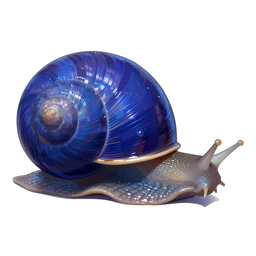
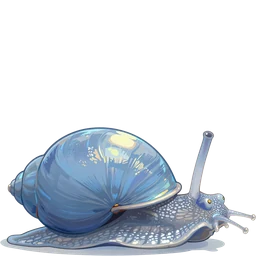
畫面評測第 2 輪：背上弧線、焦散網紋、沙上小石子、設備分頁、教學商店按鈕；第 13 批素材
- V16：燕尾不再畫背鰭的鬚（浮在背上方的藍色弧線）。
- V17：焦散改成細胞狀細網紋，網眼縮小、只照下半缸、透明度降低。
- V19：沙上的灰色亮面圓球改成扁平、跟沙同色系的小石子群，有接觸陰影。
- V20：硝化菌液跟設備放同一排，不會一張卡佔一列。
- 教學的「帶我去商店」改成次要按鈕、不放最右邊，連點下一步不會誤開商店。
- 第 13 批：米蝦卵鞍、抱卵、發眼卵、幼蝦、亞成蝦、蛻殼、卡殼，水晶蝦抱卵、幼蝦，蘋果螺金藍紫象牙四色（新增紫、象牙），新後景。

Claude-Session: https://claude.ai/code/session_01KsbS4vLZbfPytVNgNzSz4q

diff --git a/src/render/scenery.ts b/src/render/scenery.ts
@@ -424,25 +424,35 @@ function paintSubstrate(ctx: Ctx, b: TankBounds, hs: number, look: Exclude<Subst
   const rand = seeded(4242);
   paintGrains(ctx, rand, pal, hs, 0, bottom - 16 * hs, w, 50 * hs, art ? 3 : 1);
   if (look === 'sand' || look === 'coral') {
-    // 小卵石、貝殼碎片
-    for (let i = 0; i < w / 45; i++) {
-      const x = rand() * w;
-      const yy = sandSurface(look, x, w, bottom, hs) + 4 * hs + rand() * 20 * hs;
-      const r = (2 + rand() * 4) * Math.max(0.6, hs);
-      const pg = ctx.createRadialGradient(x - r * 0.3, yy - r * 0.4, 0, x, yy, r);
-      const tone = look === 'coral' ? [0xf4ece0, 0xe6c8b8, 0xfaf6ee, 0xd8cfc0][i % 4] : [0xd9cbb0, 0xa89a86, 0x8c8478, 0xe8e0d0][i % 4];
-      pg.addColorStop(0, rgba(mix(tone, 0xffffff, 0.4), 1));
-      pg.addColorStop(1, rgba(mix(tone, 0x000000, 0.3), 1));
-      ctx.fillStyle = pg;
-      ctx.beginPath();
-      if (look === 'coral') {
-        // 珊瑚碎片是有稜角的
-        ctx.moveTo(x - r * 1.4, yy);
-        ctx.lineTo(x - r * 0.2, yy - r);
-        ctx.lineTo(x + r * 1.3, yy - r * 0.3);
-        ctx.lineTo(x + r * 0.5, yy + r * 0.7);
-      } else ctx.ellipse(x, yy, r * 1.3, r, 0, 0, Math.PI * 2);
-      ctx.fill();
+    // 小卵石、貝殼碎片（畫面評測 V19：原本是灰色的亮面圓球，像黏在沙上的氣泡）
+    // 改成扁扁的、顏色跟沙接近的小石子，三五顆聚在一起，底下有一點接觸陰影
+    const groups = Math.round(w / 140);
+    for (let gi = 0; gi < groups; gi++) {
+      const gx = rand() * w;
+      const count = 2 + Math.floor(rand() * 4);
+      for (let k = 0; k < count; k++) {
+        const x = gx + (rand() - 0.5) * 26 * hs;
+        const yy = sandSurface(look, x, w, bottom, hs) + 5 * hs + rand() * 18 * hs;
+        const r = (1.4 + rand() * 2.6) * Math.max(0.6, hs);
+        const tone = look === 'coral' ? [0xf4ece0, 0xe6c8b8, 0xfaf6ee, 0xd8cfc0][(gi + k) % 4] : [0xc9b48e, 0xb09a78, 0x9a8a74, 0xd8c8a6, 0x8d7a62][(gi + k) % 5];
+        ctx.fillStyle = 'rgba(60,45,25,0.22)';
+        ctx.beginPath();
+        ctx.ellipse(x + r * 0.2, yy + r * 0.45, r * 1.5, r * 0.45, 0, 0, Math.PI * 2);
+        ctx.fill();
+        const pg = ctx.createLinearGradient(x, yy - r * 0.7, x, yy + r * 0.7);
+        pg.addColorStop(0, rgba(mix(tone, 0xffffff, 0.25), 1));
+        pg.addColorStop(1, rgba(mix(tone, 0x000000, 0.18), 1));
+        ctx.fillStyle = pg;
+        ctx.beginPath();
+        if (look === 'coral') {
+          // 珊瑚碎片是有稜角的
+          ctx.moveTo(x - r * 1.4, yy);
+          ctx.lineTo(x - r * 0.2, yy - r);
+          ctx.lineTo(x + r * 1.3, yy - r * 0.3);
+          ctx.lineTo(x + r * 0.5, yy + r * 0.7);
+        } else ctx.ellipse(x, yy, r * (1.2 + rand() * 0.5), r * 0.7, (rand() - 0.5) * 0.5, 0, Math.PI * 2);
+        ctx.fill();
+      }
     }
   }
   // 沙面最後面的陰影（水草、石頭根部）
@@ -537,6 +547,50 @@ function paintGrains(ctx: Ctx, rand: () => number, pal: (typeof SUBSTRATE_PALETT
   }
 }
 
+/**
+ * 焦散網紋的亮度（0–1）：細胞狀的網（Voronoi 的邊，F2−F1 接近 0 的地方），再用低頻的波扭一下讓網線彎彎的。
+ * size 是貼圖邊長，cells 每邊幾格；點的位置用整數頻率包回去，所以可以無縫拼接。
+ * 畫面評測 V17：原本三組大波疊出來的是幾條粗白曲線，像煙；水底的光紋應該是細細一張網。
+ */
+export function causticsField(size: number, cells: number, seed = 7): Float32Array {
+  let r = seed;
+  const rand = () => (r = (r * 16807) % 2147483647) / 2147483647;
+  const pts: number[] = [];
+  for (let i = 0; i < cells * cells; i++) pts.push(rand(), rand());
+  const cell = size / cells;
+  const T = (Math.PI * 2) / size;
+  const out = new Float32Array(size * size);
+  for (let y = 0; y < size; y++) {
+    for (let x = 0; x < size; x++) {
+      // 扭曲：整數頻率，拼接處接得起來
+      const amp = cell * 0.22;
+      const wx = x + amp * (Math.sin(2 * y * T + 1.3) + 0.5 * Math.sin(5 * y * T + 3 * x * T));
+      const wy = y + amp * (Math.sin(2 * x * T) + 0.5 * Math.sin(4 * x * T - 3 * y * T + 2));
+      const gx = Math.floor(wx / cell);
+      const gy = Math.floor(wy / cell);
+      let f1 = Infinity;
+      let f2 = Infinity;
+      for (let dy = -1; dy <= 1; dy++) {
+        for (let dx = -1; dx <= 1; dx++) {
+          const cx = gx + dx;
+          const cy = gy + dy;
+          const k = (((cy % cells) + cells) % cells) * cells + (((cx % cells) + cells) % cells);
+          const px = (cx + pts[k * 2]) * cell;
+          const py = (cy + pts[k * 2 + 1]) * cell;
+          const d = Math.hypot(wx - px, wy - py);
+          if (d < f1) {
+            f2 = f1;
+            f1 = d;
+          } else if (d < f2) f2 = d;
+        }
+      }
+      const e = (f2 - f1) / cell;
+      out[y * size + x] = Math.exp(-((e / 0.08) ** 2));
+    }
+  }
+  return out;
+}
+
 /** 可以無縫拼接的焦散光紋（水面的波浪把光聚成網狀亮線）。 */
 let caustics: Texture | null = null;
 export function causticsTexture(): Texture {
@@ -544,21 +598,12 @@ export function causticsTexture(): Texture {
   const N = 256;
   const { canvas, ctx } = makeCanvas(N, N);
   const img = ctx.createImageData(N, N);
-  const T = (Math.PI * 2) / N;
-  for (let y = 0; y < N; y++) {
-    for (let x = 0; x < N; x++) {
-      const u = x * T;
-      const v = y * T;
-      // 三組整數頻率的波疊加 → 可無縫拼接；值接近 0 的等高線就是焦散亮線
-      const s = Math.sin(3 * u + 1.6 * Math.sin(2 * v)) + Math.sin(3 * v + 1.6 * Math.sin(2 * u + 1)) + Math.sin(2 * (u + v) + Math.sin(3 * u - v));
-      const s2 = Math.sin(5 * u - 2 * v + Math.sin(4 * v)) * 0.6;
-      const line = Math.exp(-((s + s2) ** 2) * 6);
-      const i = (y * N + x) * 4;
-      img.data[i] = 255;
-      img.data[i + 1] = 255;
-      img.data[i + 2] = 255;
-      img.data[i + 3] = Math.round(255 * Math.min(1, line));
-    }
+  const field = causticsField(N, 7);
+  for (let i = 0; i < N * N; i++) {
+    img.data[i * 4] = 235;
+    img.data[i * 4 + 1] = 252;
+    img.data[i * 4 + 2] = 255;
+    img.data[i * 4 + 3] = Math.round(255 * field[i]);
   }
   ctx.putImageData(img, 0, 0);
   caustics = canvasTexture(canvas, false);

diff --git a/src/render/tank-view.ts b/src/render/tank-view.ts
@@ -383,11 +383,12 @@ export class TankView {
     for (const [c, scale] of [[this.causticsA, 1.2], [this.causticsB, 0.8]] as const) {
       c.width = b.width;
       c.height = b.height;
-      c.tileScale.set(scale * Math.max(0.6, this.hs) * 1.6);
+      // 網眼約一個拳頭大（畫面評測 V17：之前放太大，變成幾條粗白曲線）
+      c.tileScale.set(scale * Math.max(0.6, this.hs) * 0.75);
     }
     // 遮罩用柔和的漸層（從水中段淡入，到底沙最亮）
     if (this.causticsMask.texture === Texture.EMPTY) this.causticsMask.texture = fadeTexture();
-    const y0 = b.surface + (b.bottom - b.surface) * 0.3;
+    const y0 = b.surface + (b.bottom - b.surface) * 0.5;
     this.causticsMask.position.set(0, y0);
     this.causticsMask.width = b.width;
     // 焦散只照在水和底沙上，不畫到下方工具列後面
@@ -589,8 +590,8 @@ export class TankView {
       this.causticsA.tilePosition.y += dt * 4;
       this.causticsB.tilePosition.x -= dt * 6;
       this.causticsB.tilePosition.y += dt * 7;
-      this.causticsA.alpha = 0.22 + 0.06 * Math.sin(t * 0.8);
-      this.causticsB.alpha = 0.18 + 0.06 * Math.sin(t * 0.6 + 1);
+      this.causticsA.alpha = 0.16 + 0.05 * Math.sin(t * 0.8);
+      this.causticsB.alpha = 0.12 + 0.05 * Math.sin(t * 0.6 + 1);
     }
     for (const m of this.motes) {
       m.x += (m.vx + Math.sin(t * 0.5 + m.phase) * 4) * dt;

diff --git a/src/ui/panels.ts b/src/ui/panels.ts
@@ -862,7 +862,8 @@ export function shopPanel(ctx: PanelContext, tab: ShopTab = 'fish'): Node {
         '換底材要拆缸重鋪：底砂裡的細菌和髒污會翻出來，魚也會很緊迫。',
         '有些石頭會慢慢讓水變硬、pH 變高。不確定的話先滴白醋：冒泡就是含碳酸鈣。拿出來的石頭會放回倉庫，不退錢。',
       ]),
-      h('h3', {}, '水質用品'),
+      // 硝化菌液排第一張（養水任務帶到這頁），跟設備放同一排，不會一張卡佔一整列（畫面評測 V20）
+      h('h3', {}, '養水與設備'),
       cardGrid(
         shopCard({
           icon: 'bacteria',
@@ -873,9 +874,6 @@ export function shopPanel(ctx: PanelContext, tab: ShopTab = 'fish'): Node {
           note: '幫新缸加一小批硝化菌，要有魚或氨才長得起來',
           actions: [button('倒一瓶', () => purchase(ctx, price('care:bacteria'), (st) => void addBottledBacteria(st), '倒了一瓶硝化菌液，過一兩天測測看'), 'small')],
         }),
-      ),
-      h('h3', {}, '過濾、加熱、燈'),
-      cardGrid(
         ...Object.values(FILTERS).map((f) =>
           item(f.name, `filter:${f.id}`, eq.filter?.spec.id === f.id, () => {
             purchase(ctx, price(`filter:${f.id}`), (st) => replaceFilter(st, f), `換上${f.name}，濾材要重新養菌`, 'warn', true);

diff --git a/src/ui/guide.ts b/src/ui/guide.ts
@@ -133,14 +133,14 @@ export class Guide {
       q && this.progress.step === 0
         ? h('button.btn.small', { onclick: () => this.skip() }, '跳過教學')
         : null;
+    // 「帶我去商店」不是主要按鈕、也不放在最右邊：連點「下一步」的人不會不小心打開商店（畫面評測第 2 輪）
     const shop =
       page.shop && this.openShop
-        ? h('button.btn.small.primary.go-shop', { onclick: () => this.goShop(page.shop!) }, artImg('shop', 'btn-art'), '帶我去商店')
+        ? h('button.btn.small.go-shop', { onclick: () => this.goShop(page.shop!) }, artImg('shop', 'btn-art'), '帶我去商店')
         : null;
-    if (shop) next.classList.remove('primary');
     this.bubble.replaceChildren(
       avatar,
-      h('div.owner-body', {}, h('div.owner-name', {}, OWNER_NAME), h('p.owner-text', {}, page.text), h('div.owner-actions', {}, skip, next, shop)),
+      h('div.owner-body', {}, h('div.owner-name', {}, OWNER_NAME), h('p.owner-text', {}, page.text), h('div.owner-actions', {}, skip, shop, next)),
     );
     this.bubble.classList.add('open');
   }

diff --git a/src/render/caustics.test.ts b/src/render/caustics.test.ts
@@ -1,0 +1,23 @@
+import { describe, expect, it } from 'vitest';
+import { causticsField } from './scenery';
+
+describe('焦散網紋（畫面評測 V17）', () => {
+  const N = 64;
+  const f = causticsField(N, 4);
+
+  it('是細細的網：大部分地方是暗的，亮線佔一小部分', () => {
+    const bright = f.filter((v) => v > 0.5).length / f.length;
+    expect(bright).toBeGreaterThan(0.03);
+    expect(bright).toBeLessThan(0.3);
+  });
+
+  it('左右、上下接得起來（可以無縫拼接）', () => {
+    let diff = 0;
+    for (let y = 0; y < N; y++) diff += Math.abs(f[y * N] - f[y * N + N - 1]);
+    for (let x = 0; x < N; x++) diff += Math.abs(f[x] - f[(N - 1) * N + x]);
+    // 邊上相鄰兩點的差，跟圖內相鄰兩點的平均差差不多，不會有一條接縫
+    let inner = 0;
+    for (let y = 0; y < N; y++) for (let x = 0; x < N - 1; x++) inner += Math.abs(f[y * N + x] - f[y * N + x + 1]);
+    expect(diff / (2 * N)).toBeLessThan((inner / (N * (N - 1))) * 2.5);
+  });
+});

diff --git a/src/render/fin-overlay.ts b/src/render/fin-overlay.ts
@@ -107,14 +107,14 @@ export function finShapes(t: FinTraits, body: Body, length: number): FinShape[] 
     });
   }
   if (t.swallow) {
-    // 燕尾：鰭條末端長出鬚，尾鰭後緣拖著一排細絲，背鰭也有
+    // 燕尾：鰭條末端長出鬚，尾鰭後緣拖著一排細絲
     const tail = length * (0.08 + k * 0.1);
     for (let i = 0; i < 7; i++) {
       const u = i / 6 - 0.5;
       const y0 = cy + u * ry * 2.6;
       out.push({ kind: 'line', front: false, points: [tailEnd - length * 0.12, y0, tailEnd + tail * 0.3, y0 + u * ry * 1.4, tailEnd + tail, y0 + u * ry * 2.2 + ry * 0.2] });
     }
-    out.push({ kind: 'line', front: false, points: [cx, cy - ry * 0.9, cx + rx * 0.7, cy - ry * 2.2, cx + rx * (1.1 + k * 0.6), cy - ry * 2.6] });
+    // 背鰭的鬚不畫：魚圖的背鰭位置跟身體橢圓對不準，補上去的線會浮在背上方（畫面評測 V16）
   }
   if (t.sword) {
     // 劍尾：尾鰭上緣或下緣的鰭條延伸成一支尖劍，根部寬、尖端細

diff --git a/src/render/fin-overlay.test.ts b/src/render/fin-overlay.test.ts
@@ -29,7 +29,10 @@ describe('鰭型補畫（J18）', () => {
   });
 
   it('燕尾拖出細絲、緞帶垂兩條、大耳的胸鰭畫在前面', () => {
-    expect(finShapes({ swallow: true }, body, 100).filter((f) => f.kind === 'line').length).toBeGreaterThanOrEqual(6);
+    const sw = finShapes({ swallow: true }, body, 100);
+    expect(sw.filter((f) => f.kind === 'line').length).toBeGreaterThanOrEqual(6);
+    // 細絲都從尾巴拖出去，不會在背上方多一條浮著的弧線（畫面評測 V16）
+    expect(sw.every((f) => f.points[0] > body.x + body.rx * 0.5)).toBe(true);
     expect(finShapes({ ribbon: true }, body, 100)).toHaveLength(2);
     const d = finShapes({ dumbo: true }, body, 100);
     expect(d[0].front).toBe(true);

diff --git a/src/render/painted.ts b/src/render/painted.ts
@@ -170,7 +170,7 @@ const PROPS: Record<string, string> = {
   'gear-sponge': 'gear/sponge-filter.webp',
   // 螺（design/snails.md）
   ...Object.fromEntries(
-    ['snail-apple-gold', 'snail-apple-blue', 'snail-apple-babies', 'snail-apple-eggs', 'snail-nerite-zebra', 'snail-assassin', 'snail-ramshorn-red', 'snail-bladder', 'snail-mts'].map((k) => [k, `snail/${k}.webp`]),
+    ['snail-apple-gold', 'snail-apple-blue', 'snail-apple-purple', 'snail-apple-ivory', 'snail-apple-babies', 'snail-apple-eggs', 'snail-nerite-zebra', 'snail-assassin', 'snail-ramshorn-red', 'snail-bladder', 'snail-mts'].map((k) => [k, `snail/${k}.webp`]),
   ),
 };
 

diff --git a/src/render/snail-view.ts b/src/render/snail-view.ts
@@ -26,7 +26,7 @@ export interface SnailScene {
  */
 const SIZE_CM = { apple: 3, nerite: 1.7, assassin: 1.8, ramshorn: 1.1, bladder: 1, mts: 1.4, babies: 1.6, eggs: 3.2 };
 const TEX = {
-  apple: (c?: string) => (c === 'blue' ? 'snail-apple-blue' : 'snail-apple-gold'),
+  apple: (c?: string) => `snail-apple-${c === 'blue' || c === 'purple' || c === 'ivory' ? c : 'gold'}`,
   nerite: 'snail-nerite-zebra',
   assassin: 'snail-assassin',
   ramshorn: 'snail-ramshorn-red',

diff --git a/src/ui/shop-cards.ts b/src/ui/shop-cards.ts
@@ -49,7 +49,7 @@ export function fryArt(id: FishSpeciesId): string {
 }
 
 export function snailArt(kind: SnailKind, color?: AppleColor): string {
-  if (kind === 'apple') return `snail/snail-apple-${color === 'blue' ? 'blue' : 'gold'}.webp`;
+  if (kind === 'apple') return `snail/snail-apple-${color ?? 'gold'}.webp`;
   return kind === 'nerite' ? 'snail/snail-nerite-zebra.webp' : 'snail/snail-assassin.webp';
 }
 
